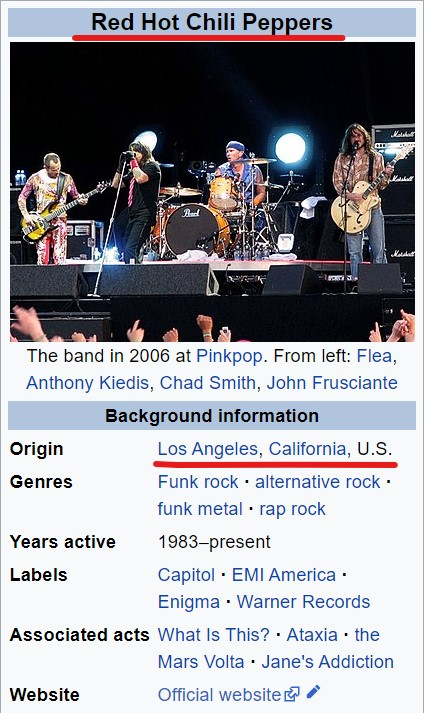
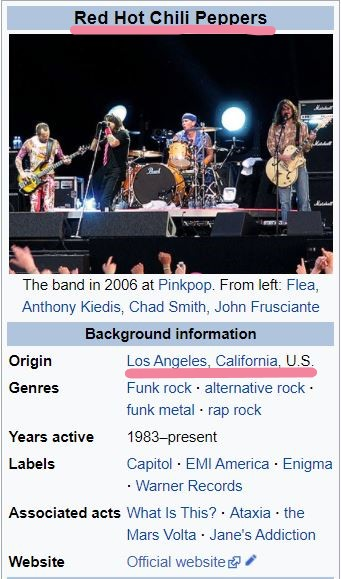
fixed rchp

Changed region(s): [[0.0, 0.0, 0.9971, 1.0], [0.1466, 0.0, 0.8211, 0.0622], [0.6745, 0.1554, 0.7038, 0.1865]]

diff --git a/wikiscrape.html b/wikiscrape.html
@@ -66,7 +66,7 @@
 							<p>When a new band catches my attention, I have always had a tendency to wonder where they came from. It can be a nice frame of reference that explains why the music came out the way it did. Did Kurt’s rainy Seattle neighborhood enable him to create such expressive music? Could Bruce have sung about his home state if it was anywhere else but New Jersey? What would the Red Hot Chili Peppers be singing about if they weren't from California? These are the questions that come to mind when I am listening.</p>
 							<p>When I first approached Localify.org, I loved that you could explore the local artists of any town in America. However, they only had about 6000 artists to city connections at the time. Their main source of information was BandsInTown, which was limited, unconfirmed and rife with spelling errors. So, the first project I started on was finding a better source of information so we could expand the database and therefore the usefulness of the site. And we all know the greatest source of information on the internet... Wikipedia!</p>
 							<!-- <span class="image right"><img src="images/rhcpWikipedia.jpg" alt="" style="width: 250px;"/></span> -->
-							<p><span class="image right"><img src="images/rhcpWikipedia.jpg" alt="" /></span>As I looked through artist's wikipedia pages, I found that most of them had their origin listed in their side bar. Perfect! All I had to do was write a script that could capture this information for every artist in our database. Here is an outline of how the script works:</p>
+							<p><span class="image right fit"><img src="images/rhcpWikipedia.jpg" alt="" width="max"/></span>As I looked through artist's wikipedia pages, I found that most of them had their origin listed in their side bar. Perfect! All I had to do was write a script that could capture this information for every artist in our database. Here is an outline of how the script works:</p>
 							<p>As I looked through artist's wikipedia pages, I found that most of them had their origin listed in their side bar. Perfect! All I had to do was write a script that could capture this information for every artist in our database. Here is an outline of how the script works:</p>
 							<ul>
 								<li>Assemble a list of all the artists in our database that have not been searched on wikipedia</li>

diff --git a/assets/css/main.css b/assets/css/main.css
@@ -2325,7 +2325,7 @@ input, select, textarea {
 		}
 
 		.image.left, .image.right {
-			max-width: 40%;
+			max-width: 30%;
 		}
 
 			.image.left img, .image.right img {
